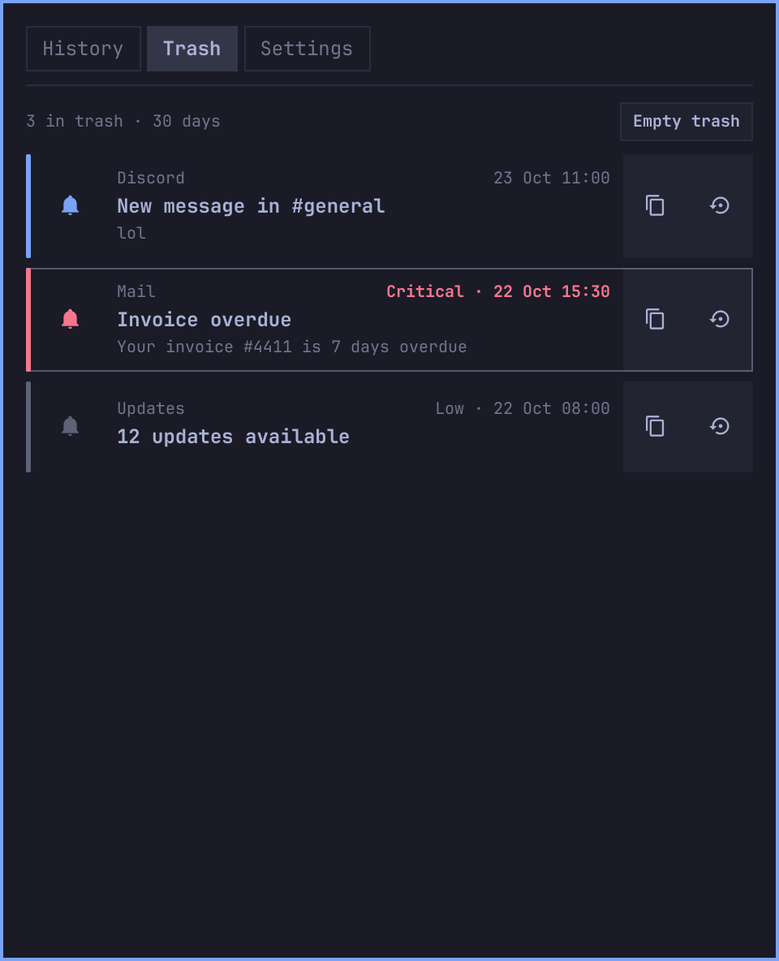
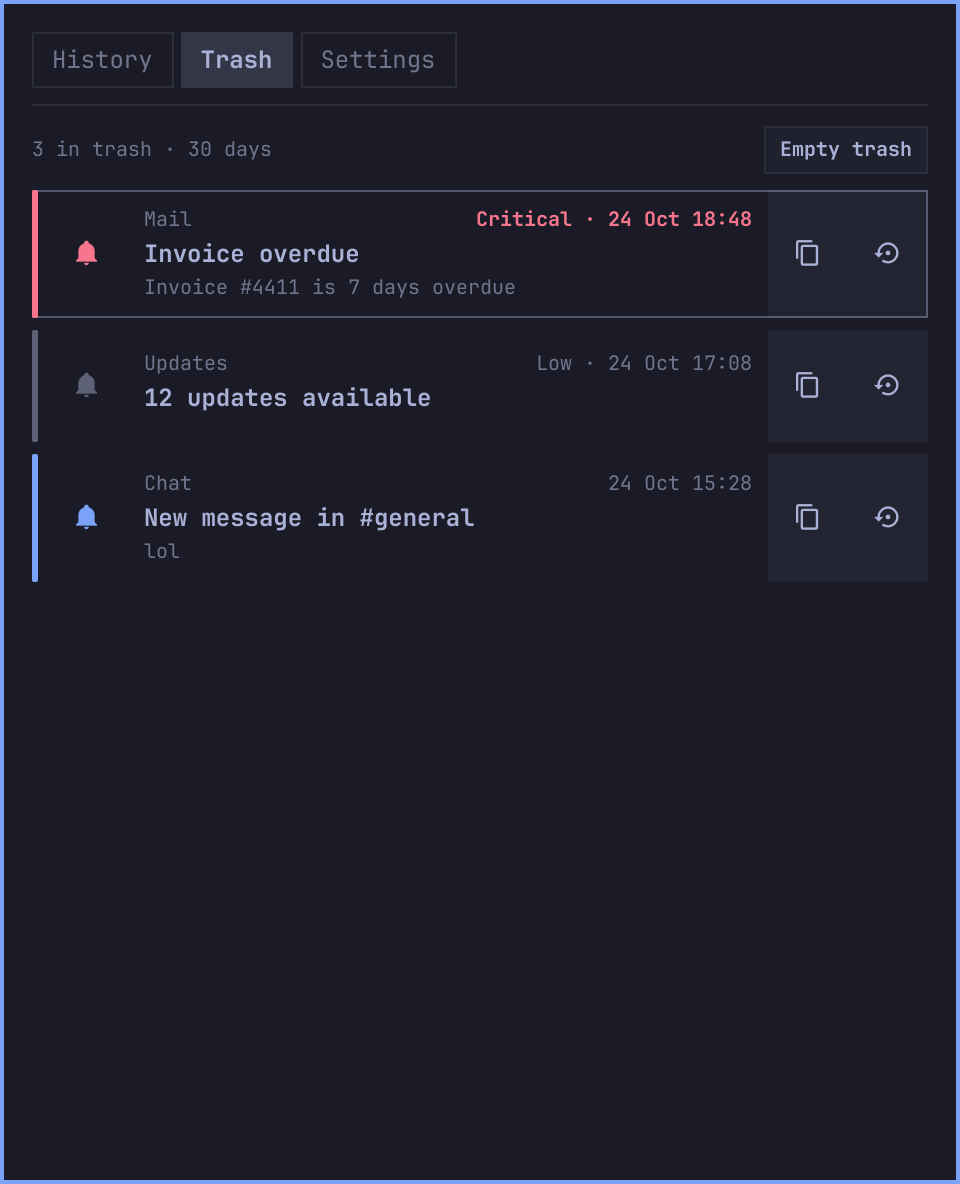
marketplace: previews from a made-up store (tools/render-previews.sh), CI workflow, PNG fallback without magick, License section

diff --git a/tests/preview/KeyboardPanel.qml b/tests/preview/KeyboardPanel.qml
@@ -1,0 +1,48 @@
+// Preview stub for tools/render-previews.sh: the card of Omarchy's
+// Ui/KeyboardPanel.qml drawn in a plain Item, since the real one is a
+// layer-shell window that cannot map offscreen.
+import QtQuick
+import qs.Commons
+import qs.Commons as Commons
+
+Item {
+  id: root
+  property Item anchorItem: null
+  property QtObject bar: null
+  property var owner: null
+  property int margin: Style.gapsOut
+  property int padding: Style.spacing.popupPadding
+  property int contentWidth: Style.space(280)
+  property int contentHeight: Style.space(200)
+  property var borderSpec: Border.surfaceSpec("popups", "border", Commons.Color.popups.border, Math.max(1, Style.space(2)))
+  property bool centerOnBar: false
+  property bool open: false
+  property int gap: Style.gapsOut
+  property bool popoutSwitching: false
+  property bool popoutSwitchClosing: false
+  property Item focusTarget: null
+  readonly property Item card: card
+  default property alias contentItem: contentHolder.children
+  readonly property real verticalContentInset: padding * 2 + Border.top(borderSpec) + Border.bottom(borderSpec)
+  function close() { open = false }
+  function fittedContentWidth(w, cap) { return Math.round(cap > 0 ? Math.min(w, cap) : w) }
+  function fittedContentHeight(h, cap) { var d = Math.max(verticalContentInset, (Number(h) || 0) + verticalContentInset); return Math.round(cap > 0 ? Math.min(d, cap) : d) }
+  function cappedContentHeight(h) { return Math.round(h) }
+  width: contentWidth; height: contentHeight
+  BorderSurface {
+    id: card
+    width: root.contentWidth; height: root.contentHeight
+    color: Commons.Color.popups.background
+    borderSpec: root.borderSpec
+    padding: root.padding
+    radius: Style.cornerRadius
+    Item {
+      id: contentHolder
+      anchors.fill: parent
+      anchors.topMargin: card.contentTopInset
+      anchors.rightMargin: card.contentRightInset
+      anchors.bottomMargin: card.contentBottomInset
+      anchors.leftMargin: card.contentLeftInset
+    }
+  }
+}

diff --git a/tests/preview/shell.qml b/tests/preview/shell.qml
@@ -1,0 +1,58 @@
+// Offscreen panel harness for tools/render-previews.sh: the real Service.qml
+// and Panel.qml on the made-up store from tests/preview/fixture.sh.
+// PREVIEW_TAB / PREVIEW_SUB pick the view; the card is saved to PREVIEW_OUT.
+import QtQuick
+import Quickshell
+import qs.Commons as Commons
+import "plugin" as N
+
+ShellRoot {
+  id: shell
+  property string tab: Quickshell.env("PREVIEW_TAB") || "history"
+  property string sub: Quickshell.env("PREVIEW_SUB") || ""
+  property string out: Quickshell.env("PREVIEW_OUT") || ""
+
+  N.Service { id: svc }
+
+  QtObject {
+    id: fakeBar
+    property color barForeground: Commons.Color.foreground
+    property color foreground: Commons.Color.foreground
+    property string fontFamily: Commons.Style.font.family
+    property bool vertical: false
+    property int barSize: 30
+    property bool urgent: false
+    property bool foregroundAnimationEnabled: false
+    property QtObject shell: QtObject { function serviceFor(n) { return svc } }
+    function showTooltip() {}
+    function hideTooltip() {}
+  }
+
+  FloatingWindow {
+    implicitWidth: 1100
+    implicitHeight: 1300
+    color: "transparent"
+    N.Panel { id: panel; bar: fakeBar; anchors.fill: parent }
+  }
+
+  Timer {
+    interval: 2500; running: true
+    onTriggered: {
+      panel.open()
+      panel.activeTab = shell.tab
+      if (shell.sub) panel.applyFilterKey(shell.sub)
+      grab.start()
+    }
+  }
+  Timer {
+    id: grab; interval: 1500
+    onTriggered: {
+      var kp = panel.children.filter(function(c) { return c.card !== undefined })[0]
+      kp.card.grabToImage(function(r) {
+        r.saveToFile(shell.out)
+        console.log("saved", shell.out, kp.card.width, kp.card.height)
+        Qt.quit()
+      })
+    }
+  }
+}

diff --git a/README.md b/README.md
@@ -141,10 +141,22 @@ Layout:
 Lint (both clean): `qmllint` on the plugin's own `.qml` files, and
 `shellcheck -x scripts/backend.sh`.
 
+CI (`.github/workflows/ci.yml`) runs `tests/run.sh` on Ubuntu for every push
+and pull request; the tests that need `qs` or a session bus skip there.
+
+The screenshots (`preview.png`, `docs/*.png`) are rendered offscreen with
+invented notifications: `tools/render-previews.sh` (needs `qs`, `jq`,
+`magick` and the Omarchy shell) runs the real service and panel on a
+throwaway store from `tests/preview/fixture.sh`, so your own history is never
+read.
+
 ## Changelog
 
 Full notes on the [Releases](https://github.com/Loafer19/omarchy-yet-another-notification-center/releases) page.
 
+- **1.5.2**: marketplace readiness: screenshots re-rendered offscreen from
+  made-up notifications (`tools/render-previews.sh`), CI on every push, a
+  License section; no behaviour change.
 - **1.5.1**: code split into `service/`, `components/` and
   `scripts/lib/`, with no behaviour change; more tests (cursor, setting
   changes, backend error paths); qmllint and shellcheck clean. Visual: the
@@ -164,3 +176,7 @@ Full notes on the [Releases](https://github.com/Loafer19/omarchy-yet-another-not
 omarchy plugin remove yoyo.notification-center
 rm -rf ~/.local/state/omarchy/yoyo.notification-center
 ```
+
+## License
+
+MIT — see [LICENSE](LICENSE).
